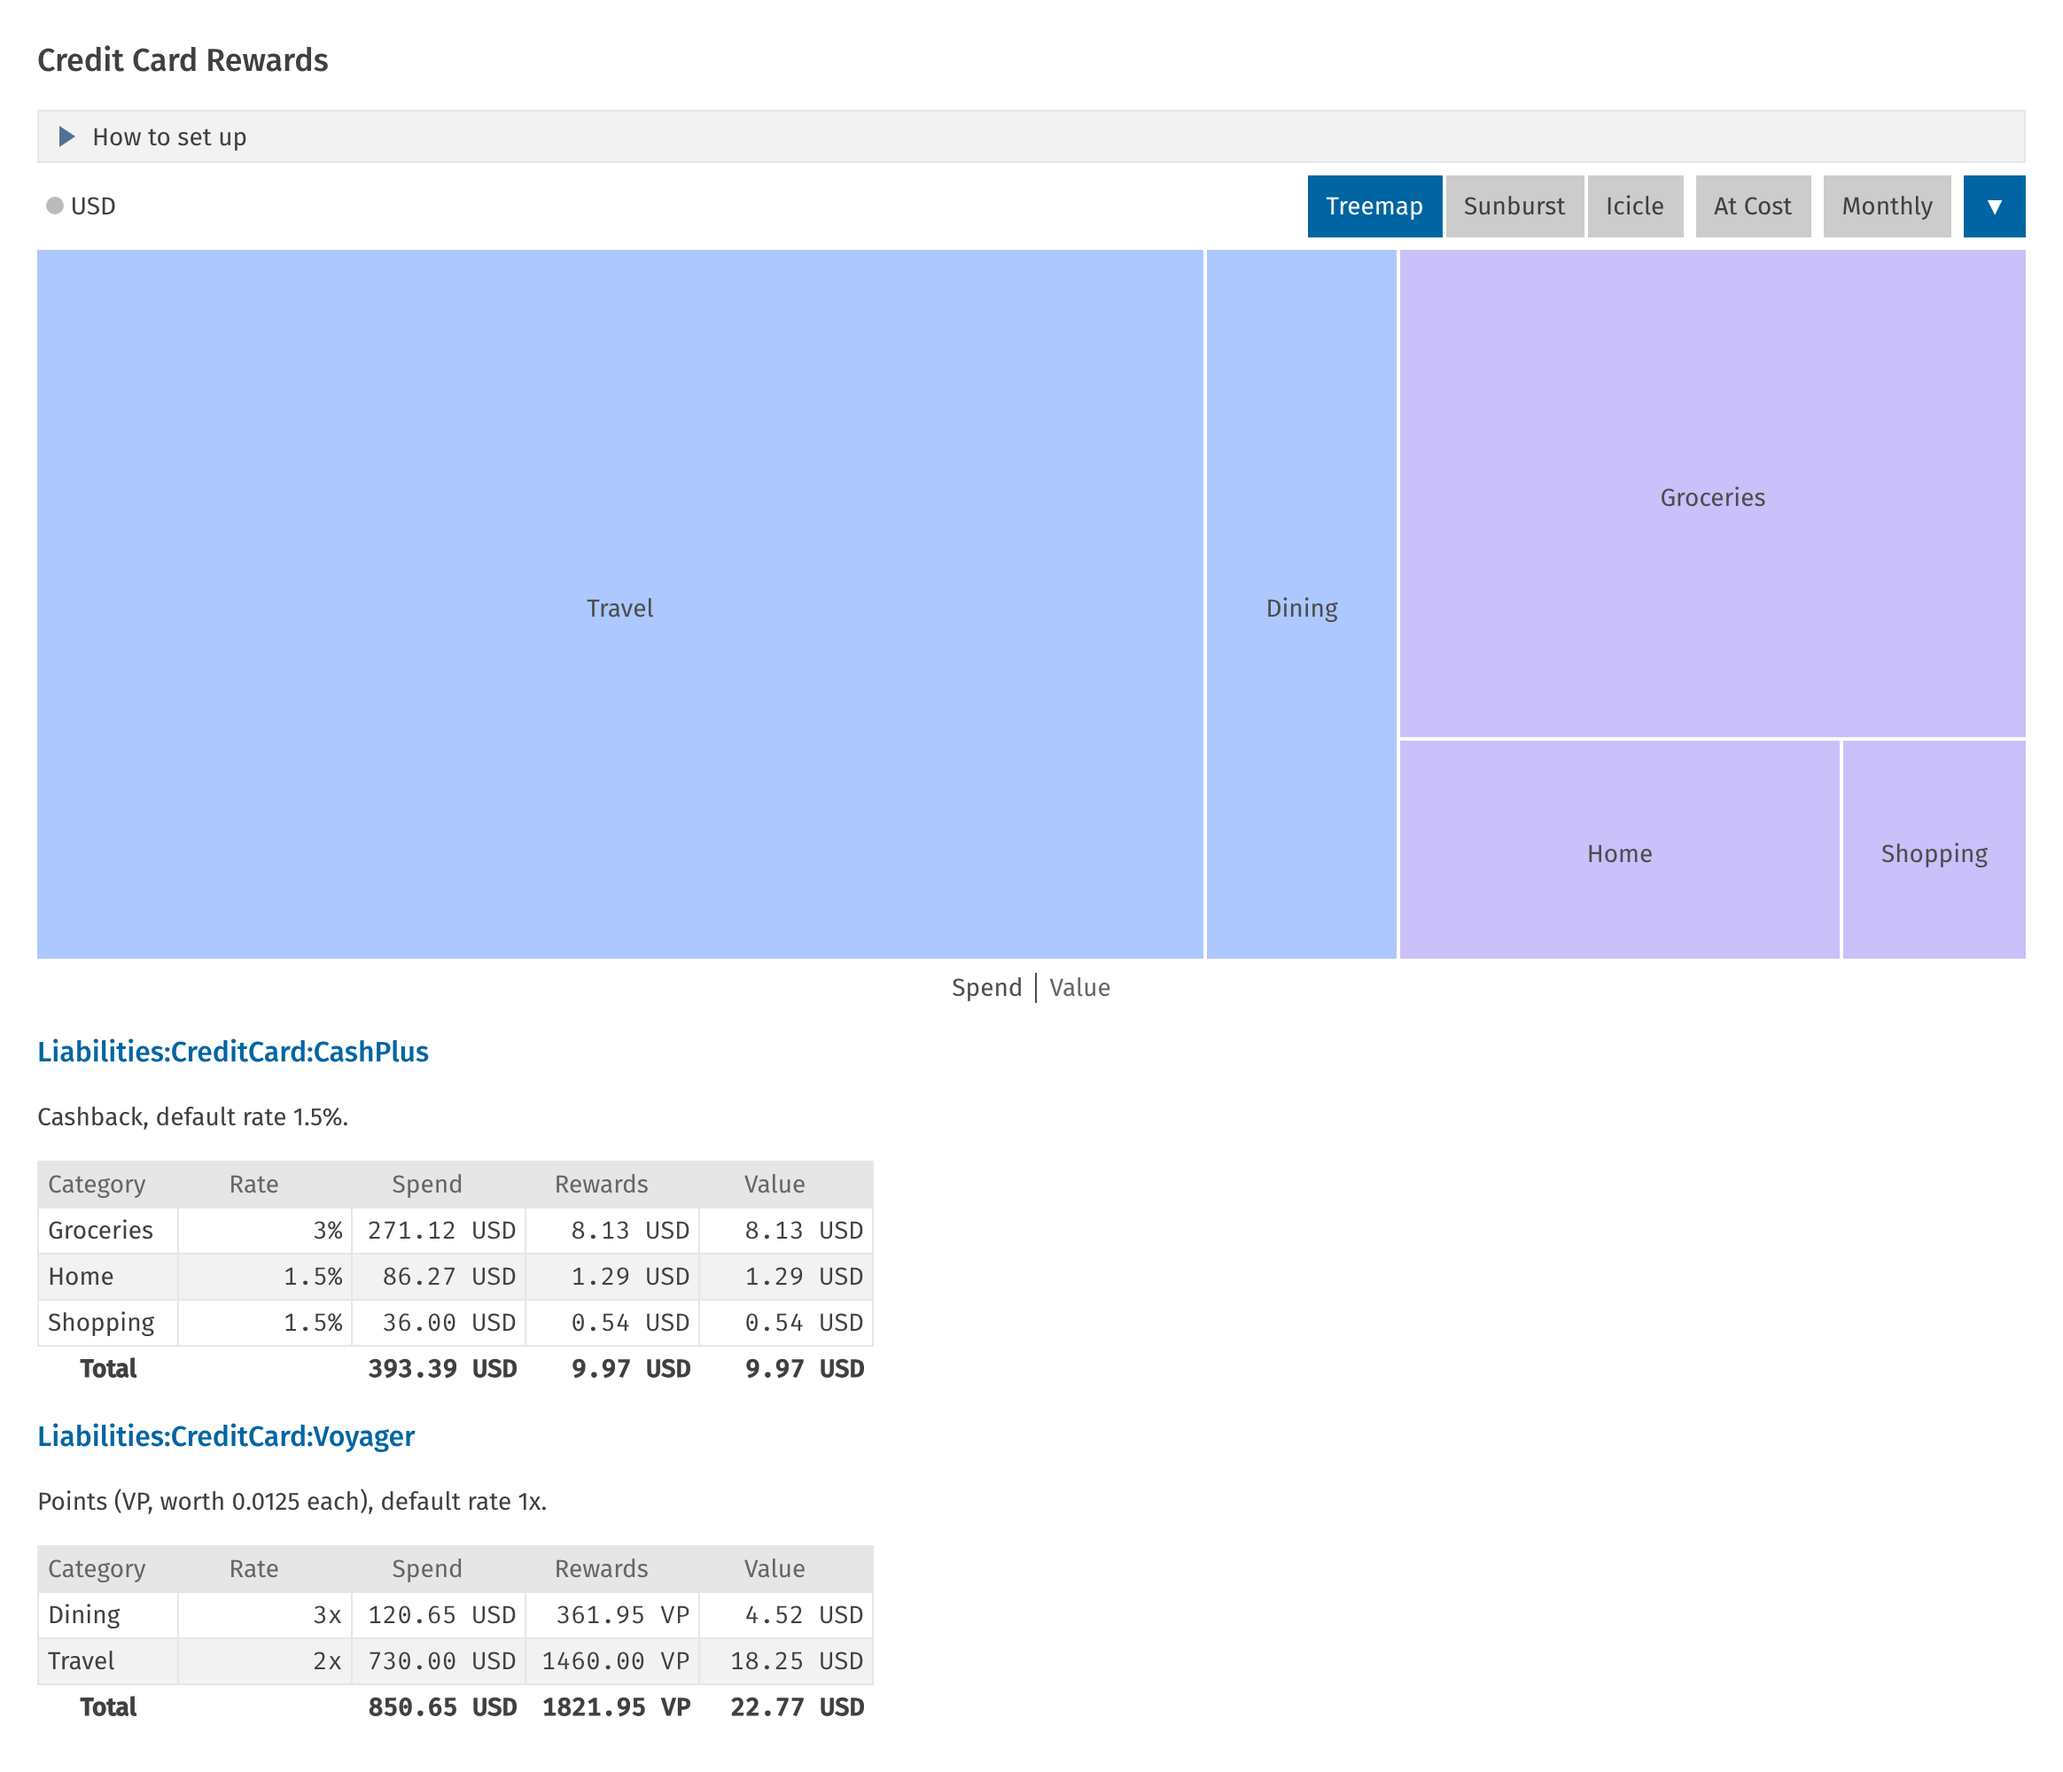
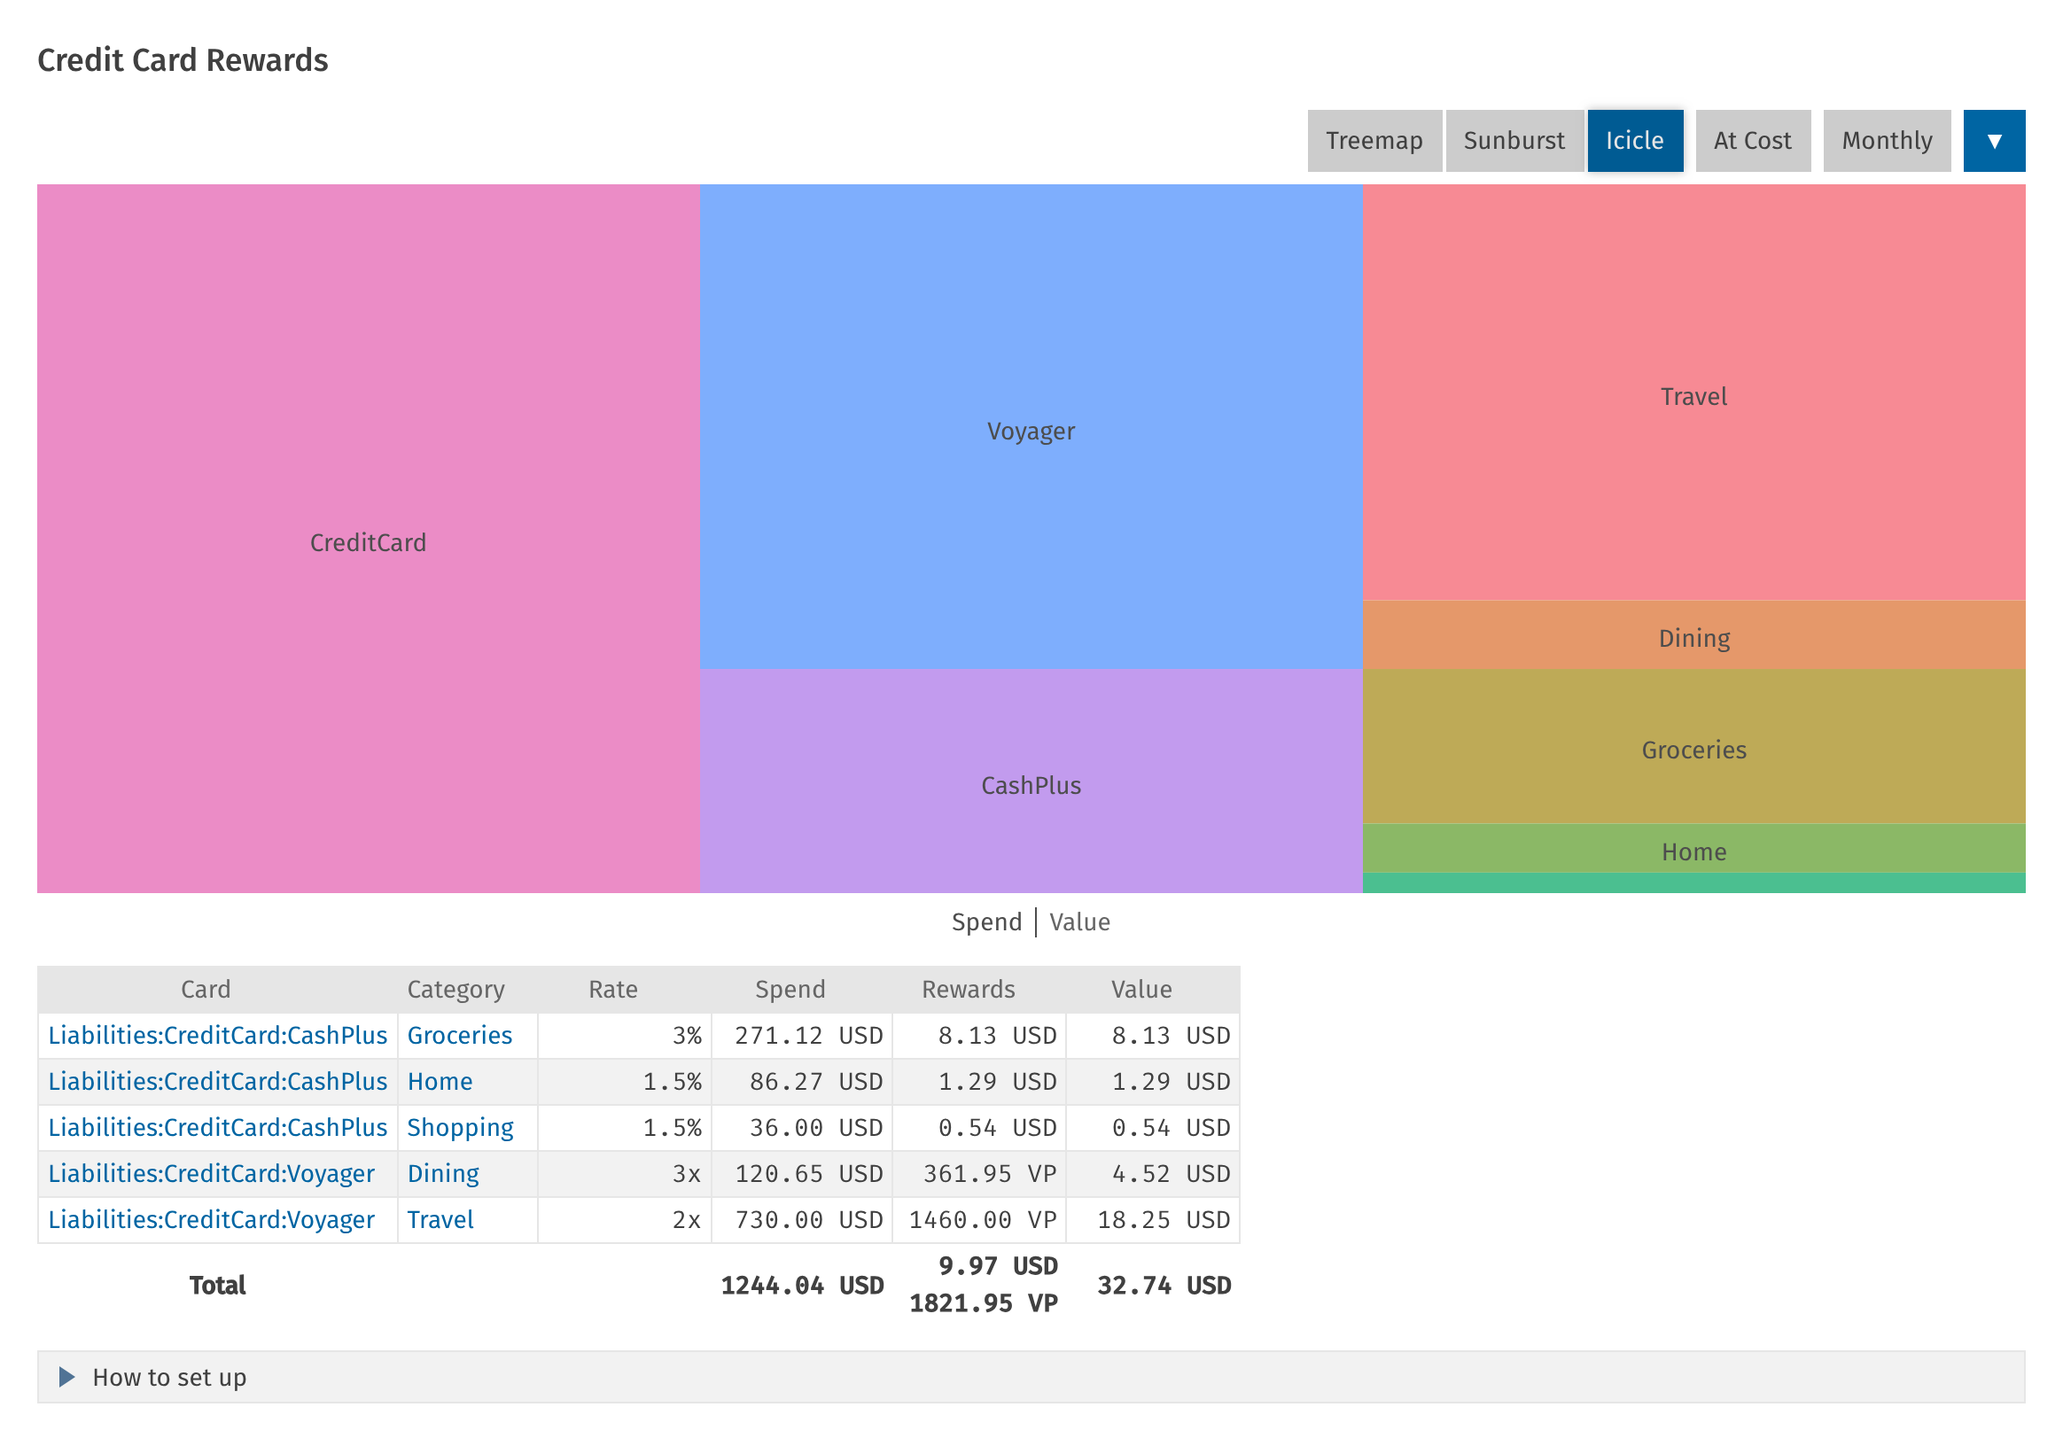
Rewards docs: icicle screenshot, category links and issuer categories
The rewards screenshot shows the chart as an icicle, replacing the separate
sunburst screenshot. The page describes the single table, category links to
the card's filtered transactions, the issuer's category and
rewards-category-key, and points' default unit.

Claude-Session: https://claude.ai/code/session_01KmgJLZjK5mttXsmcq9tafp

diff --git a/docs/fava/screenshots.py b/docs/fava/screenshots.py
@@ -96,10 +96,8 @@ def main() -> None:
             save(page, "batch-edit")
 
             page.goto(f"{base}/CreditCardRewards/", wait_until="networkidle")
+            page.get_by_text("Icicle", exact=True).click()
             save(page, "rewards")
-            page.goto(f"{base}/CreditCardRewards/?chart=Value", wait_until="networkidle")
-            page.get_by_text("Sunburst", exact=True).click()
-            save(page, "rewards-sunburst", "svelte-component")
 
             browser.close()
     finally:

diff --git a/docs/fava/rewards.md b/docs/fava/rewards.md
@@ -4,37 +4,47 @@
 2020-01-01 custom "fava-extension" "beancount_sg.ext.rewards"
 ```
 
-Totals each credit card's spending by category, with the rewards it earned and their cash value.
+Totals each credit card's spending by the card issuer's category, with the rewards it earned and
+their cash value.
 
-![Credit Card Rewards report](images/rewards.png)
+![Credit Card Rewards report, with its chart as an icicle](images/rewards.png)
 
 ## Setting up a card
 
-Configure a card's rewards with metadata on its `open` directive:
+Configure a card's rewards with metadata on its `open` directive. A cashback card needs only its
+rates:
+
+```beancount
+2020-01-01 open Liabilities:CreditCard:CashPlus USD
+  rewards: "cashback"
+  rewards-rate: 1.5            ; the default rate, for categories without their own
+  rewards-rate-groceries: 3    ; a category's rate
+```
+
+A points card can also name its points and give them a cash value:
 
 ```beancount
 2020-01-01 open Liabilities:CreditCard:Voyager USD
-  rewards: "points"            ; or "cashback"
-  rewards-rate: 1              ; the default rate, for categories without their own
-  rewards-rate-dining: 3       ; a category's rate
+  rewards: "points"
+  rewards-rate-dining: 3
   rewards-rate-travel: 2
-  rewards-unit: "VP"           ; points only: what the points are called
-  rewards-point-value: 0.0125  ; points only, optional: a point's value in cash
+  rewards-unit: "VP"           ; optional, defaults to POINTS
+  rewards-point-value: 0.0125  ; optional: a point's value in cash
 ```
 
 - **Rates:** for `cashback`, 3 means 3% back in the currency spent; for `points`, 3 points per unit
   spent. `rewards-rate` defaults to 1.
+- **Points' unit:** naming each program's points keeps points that aren't interchangeable, such as
+  two banks' programs, from being added together in the totals.
 - **Category keys** are the category slugified: `Food and Drink` uses
   `rewards-rate-food-and-drink`.
 - Configuration errors are listed at the top of the report.
 
-## What counts as spending
+## Categories
 
-The `Expenses` postings of transactions that post to the card, or one of its subaccounts, within
-the current Fava filter. Refunds count negatively. A transaction charging two configured cards is
-skipped, since its spending can't be attributed to one of them.
-
-A posting's category is its `category` metadata, or else its transaction's:
+Rates depend on the **card issuer's category** for a purchase, such as "Dining", which isn't
+necessarily the expense account you book it to. So the category comes from metadata, as an importer
+might record the bank's category: a posting's `category` metadata, or else its transaction's.
 
 ```beancount
 2024-02-14 * "Trattoria Roma" "Dinner"
@@ -43,15 +53,24 @@ A posting's category is its `category` metadata, or else its transaction's:
   Expenses:Food:Restaurants
 ```
 
+To read another metadata key, set it on the card: `rewards-category-key: "bank_category"`.
 Spending without a category is `uncategorized`, and earns the default rate.
 
-## Charts
+## What counts as spending
 
-The chart shows spending (**Spend**) or the rewards' cash value (**Value**) by card, then category,
-as a treemap, sunburst or icicle. Value puts cashback and points cards on the same scale; points
-without a `rewards-point-value` have no cash value, so they're left out of it.
+The `Expenses` postings of transactions that post to the card, or one of its subaccounts, within
+the current Fava filter. Refunds count negatively. A transaction charging two configured cards is
+skipped, since its spending can't be attributed to one of them.
 
-![Value of rewards, as a sunburst](images/rewards-sunburst.png)
+## The report
 
-Clicking a card opens its account page. Clicking a category opens a page for a non-existent
-`<card>:<category>` account, since Fava's charts link every node to an account.
+The table has a row per card and category: the rate, spend, rewards and their cash value, with
+totals per currency (so each program's points are totalled separately).
+
+The chart shows spending (**Spend**) or the rewards' cash value (**Value**) by card, then category;
+the icicle view shows this hierarchy most clearly. Value puts cashback and points cards on the
+same scale; points without a `rewards-point-value` have no cash value, so they're left out of it.
+
+Clicking a card opens its account page. Clicking a category, in the table or the chart, opens the
+card's account page filtered to that category's transactions, keeping the current time range and
+filter.
